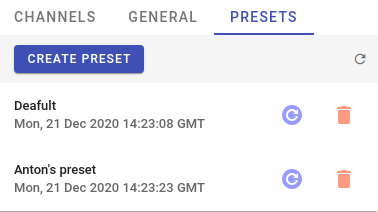
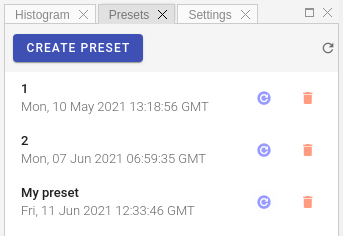
WIP: user manual update.

diff --git a/docs/user/datasets.md b/docs/user/datasets.md
@@ -1,25 +1,71 @@
 # Datasets
 
-To upload zipped dataset file please click **Upload Dataset** button, which is active in Data mode and located in Datasets panel.
+Datasets combine segmentation masks and single-cell measurements (mean cell intensities and centroids coordinates).
+There are several ways to acquire datasets in histoCAT Web: one can import an output of separate IMC pipeline processing or generate cell-specific data by running deep-learning segmentation algorithm. 
 
-![Datasets view](../assets/datasets-view.png)
+As soon as dataset is ready, user can analyse single-cell data, e.g., perform dimensionality reduction, run cluster analysis, etc.
 
-!!! info "Info"
-    Processing of the uploaded dataset files can take some time. As soon as processing is complete, dataset name will appear in Datasets list and popup notification message will be displayed.
-
-histoCAT stores preprocessed datasets and all analysis results in AnnData file format, see details at [https://anndata.readthedocs.io](https://anndata.readthedocs.io). You can download these AnnData files by clicking **Download** button in dataset view: 
+histoCAT Web stores raw datasets and its processed analysis sub-sets in AnnData file format, see details at [https://anndata.readthedocs.io](https://anndata.readthedocs.io).
+You can download these AnnData files by clicking **Download** button in dataset view: 
 
 ![Dataset download](../assets/dataset-download-button.png)
 
 There are other commands available for each dataset as well: **Rename** and **Delete**.
 
-When you select dataset from the list, cell masks will become available for visualization in Blend image view. Acquisitions that have available mask information will be marked by the mask icon:   
+When you select dataset from the list, cell masks will become available for visualization in Image view.
+Acquisitions that have available mask information will be marked by the mask icon:   
 
 ![Acquisition mask icons](../assets/acquisition-mask-icon.png)
 
-If such acquisition with mask icon is selected in the Workspace view, then **Mask overlay** button will be enabled so one can switch it on to see according mask overlay in the Blend image view:
+When such acquisition with the mask icon selected in the Slides view, then **Mask overlay** button will be enabled so one can switch it on to see according mask overlay in the Blend image view:
 
 ![Blend image view with mask overlay enabled](../assets/blend-mask-view.png)
 
 !!! warning "Warning"
     Don't forget: dataset should be selected in order to see mask overlay or start data analysis pipeline!
+
+
+## Importing datasets
+
+In order to import existing dataset, please click `UPLOAD DATASET` menu and select a proper option:
+
+![Upload dataset](../assets/dataset-import.png)
+
+!!! info "Info"
+    Processing of the uploaded dataset files can take some time. As soon as processing is complete, dataset name will appear in Datasets list and popup notification message will be displayed.
+
+At the time of writing, four dataset import options are available. Let's describe each option separately.
+
+### steinbock
+
+histoCAT Web is able to import a zipped output of [steinbock](https://github.com/BodenmillerGroup/steinbock) multi-channel image processing framework.
+
+!!! warning "Warning"
+    Please keep in mind, that [directory structure](https://bodenmillergroup.github.io/steinbock/specs/directory-structure.html) may differ if user provided custom names when running `steinbock` pipeline. 
+
+File upload dialog gives an option to define custom directory names when importing `steinbock` datasets:
+
+![steinbock dataset upload](../assets/steinbock-dataset-upload.png)
+
+### ImcSegmentationPipelineV1
+
+[ImcSegmentationPipeline](https://github.com/BodenmillerGroup/ImcSegmentationPipeline): A flexible image segmentation pipeline for heterogeneous multiplexed tissue images based on pixel classification.
+For more details please see [https://github.com/BodenmillerGroup/ImcSegmentationPipeline](https://github.com/BodenmillerGroup/ImcSegmentationPipeline)
+
+Before uploading dataset to histoCAT, there are some additional steps users need to do. Output of the ImcSegmentationPipeline should contain the folder called **cpout** (i.e. CellProfiler output). Here is an example of a content in such folders:
+
+![Example of cpout folder content](../assets/cpout-folder.png)
+
+By default, this folder misses one important piece - channel order information. The easiest way to fix it at the moment is to manually copy a single file with channel order information from another folder, which is **tiffs** folder with the content similar to the following:
+
+![](../assets/tiffs-folder.png)
+
+You may see there several CSV files with _\_ac\_full.csv_ suffix. Just copy one of these files into **cpout** folder. This file will be used by histoCAT to find out about channel order information when you upload dataset. In order to upload the dataset, please create a **ZIP** archive of the before-mentioned **cpout** folder (with included _\_ac\_full.csv_ file) and then upload it to histoCAT.
+
+### ImcSegmentationPipelineV2
+
+ImcSegmentationPipeline v2 has some changes in the output format.
+For details, please see official [changelog](https://github.com/BodenmillerGroup/ImcSegmentationPipeline#changelog).
+
+Zip file content should have the following folder structure:
+![ImcSegmentationPipelineV2 folder structure](../assets/ImcSegmentationPipelineV2-folder.png)

diff --git a/docs/user/project.md b/docs/user/project.md
@@ -3,9 +3,32 @@
 Most of the time you'll spend in `Project` view.
 It provides all tools for raster image and plots visualisation, supports bi-directional gating and give access to cell segmentation and single-cell data analysis.
 
-![Project view](../assets/overview.png)
+![Project workspace](../assets/overview.png)
 
-Project view layout has the following panels:
+## Layout management
+
+histoCAT Web provides quite flexible layout mechanism, where each panel can be easily resized, moved, hidden or docked into groups of panels.
+Moreover, users can save multiple layout presets and switch between them on the fly. `Default` layout is always present and cannot be deleted.
+If you ever delete a panel and cannot find it anymore, you just need to switch to `Default` layout, where all panels are present at the same time, and use it as a starting point to construct new layout according to your needs.
+
+Here is how `Default` layout looks like:
+
+![Default project layout](../assets/default-layout.png)
+
+To manage layouts please use controls at the top-right part of the screen:
+
+![Layout controls](../assets/layout-controls.png)
+
+`Layout` dropbox menu shows all available layouts. By clicking any element in the menu, you can load that layout.
+`Save layout` button opens a dialog where one can name the layout and save it for further use.
+`Reset layouts` button deletes all saved layouts and switch back to `Default` layout.
+
+!!! info "Info"
+    You can use `Reset layouts` button in case you removed some panels by accident, because `Default` layout displays all available panels in the project workspace. 
+
+## Available panels
+
+Project workspace layout has the following panels:
 
 - Slides
 - Datasets

diff --git a/docs/user/image.md b/docs/user/image.md
@@ -1,7 +1,7 @@
 # Image
 
-Image view is used to visualize channels selected in the Channels view as well as segmentation masks.
-Zoom/panning functionality is supported.
+Image view visualizes channels selected in the Channels view, as well as displays an overlay of segmentation masks.
+Zoom/panning functionality supported.
 
 ![Image view](../assets/image-view.png)
 
@@ -12,4 +12,8 @@ Raster images can be exported in TIFF, OME-TIFF or PNG formats by clicking Expor
 One useful feature is to get channels statistics for a selected region.
 To activate this behavior, please switch **Region** toggle button and then select some area on the raster image using mouse by holding _SHIFT_ key or by selecting `Lasso` tool ![Lasso tool](../assets/lasso-tool-button.png).
 As soon as you release left mouse button, you will get general statistics (min/max/mean intensities) for the selected area for all available channels.
-This information is displayed in Region panel (see related section in documentation).
+This information is shown in Region panel (see related section in documentation).
+
+!!! info "Info"
+    Mask overlay and its opacity controlled by these toolbar elements:
+    ![](../assets/mask-controls.png) 

diff --git a/docs/user/slides.md b/docs/user/slides.md
@@ -1,14 +1,14 @@
 # Slides
 
-Main purpose of the Slides view is to provide access to slide images.
+Slides view represents all uploaded slides in a tree-structured manner, Where each slide can host multiple image acquisitions and panorama images.
 
 ![Slides view](../assets/slides-view.png)
 
 The first step is to upload compatible slides files.
-Three formats are supported at the moment:
+Three formats supported at the moment:
 
-* MCD™ files acquired with the Hyperion™ Imaging System and CyTOF® Software 6.7 and later
-* Output of _mcdfolder2imcfolder_ conversion of **imctools v2** library
+* MCD™ files acquired with the Hyperion™ Imaging System and CyTOF® Software 6.7 and later. Such files have `*.mcd` extension. You can also upload zipped MCD files in order to decrease upload size.
+* Zipped output of _mcdfolder2imcfolder_ conversion of **imctools v2** library.
 * Zipped Fluidigm Imaging Mass Cytometry™ data folders with content similar to the following:
 
 ![Fluidigm IMC data folder](../assets/fluidigm-data.png)

diff --git a/docs/user/settings.md b/docs/user/settings.md
@@ -1,0 +1,15 @@
+# Settings
+
+Settings view allows users to control some image viewer parameters. The following options are available:
+
+## Legend
+![Legend options](../assets/legend-options.png)
+
+## Scalebar
+![Scalebar options](../assets/scalebar-options.png) 
+
+## Filter
+![Filter options](../assets/filter-options.png) 
+
+!!! info "Info"
+    Filter has two types: Gaussian and Median. If you have a noisy image, applying filter may improve visual quality.
